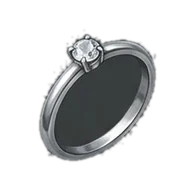
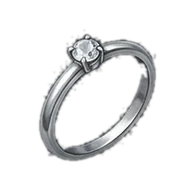
Itens: clique amplia e compara com o equipado, dois cliques equipam; recorte limpa o miolo de aneis, colares e arcos - aguardando OK
Claude-Session: https://claude.ai/code/session_01W1tJzqUatBvNJoFh2xMGhn

Changed region(s): [[0.2812, 0.2812, 0.7812, 0.7812]]

diff --git a/js/app.js b/js/app.js
@@ -405,8 +405,8 @@
   function fichaItemHtml(item) {
     var p = estado.personagem;
     if (!item) {
-      return '<p class="suave">' + (temMouse ? 'Passe o mouse num item para ver a ficha. Clique para equipar ou desequipar.'
-        : 'Toque num item para ver a ficha e equipar.') + '</p>';
+      return '<p class="suave">' + (temMouse ? 'Passe o mouse num item para ver a ficha. Um clique amplia e compara; dois cliques equipam ou desequipam.'
+        : 'Toque num item para ampliar e comparar. Dois toques equipam ou desequipam.') + '</p>';
     }
     var slot = R.slotDoItem(p, item.id);
     var alvo = null;
@@ -447,6 +447,64 @@
       + '<ul class="ficha-item-bonus">' + linhas + '</ul>'
       + (alvo ? '<p class="suave">Comparado com ' + nomeItemHtml(alvo) + '</p>' : '')
       + '<div class="item-acoes">' + acoes + '</div>';
+  }
+
+  // ---------- Zoom do item: o item ampliado, lado a lado com o equipado no mesmo espaço ----------
+  function itemParaComparar(p, item) {
+    if (R.slotDoItem(p, item.id)) return null;
+    if (item.tipo === 'anel') return R.itemNoSlot(p, 'anel1') || R.itemNoSlot(p, 'anel2');
+    return R.itemNoSlot(p, item.tipo);
+  }
+
+  function diferenca(v, outro, sufixo) {
+    var d = Math.round((v - outro) * 10) / 10;
+    return d ? ' <span class="' + (d > 0 ? 'mais' : 'menos') + '">(' + (d > 0 ? '+' : '') + fmt(d) + (sufixo || '') + ')</span>' : '';
+  }
+
+  // Carta grande de um item; `outro` (opcional) é o item com que ele é comparado.
+  function cartaZoom(item, outro, rotulo) {
+    var linhas = [];
+    if (item.tipo === 'arma') {
+      var d = R.danoArma(item), m = (d[0] + d[1]) / 2;
+      var mo = outro ? (R.danoArma(outro)[0] + R.danoArma(outro)[1]) / 2 : null;
+      linhas.push('<li><span>Dano</span><strong>' + dano(d) + '</strong></li>');
+      linhas.push('<li><span>Dano médio</span><strong>' + fmt(m) + (outro ? diferenca(m, mo) : '') + '</strong></li>');
+    } else {
+      var b = R.bonusItem(item), bo = outro ? R.bonusItem(outro) : {};
+      Object.keys(D.bonus).filter(function (k) { return b[k] || bo[k]; }).forEach(function (k) {
+        linhas.push('<li' + (b[k] ? '' : ' class="suave"') + '><span>' + D.bonus[k] + '</span><strong>+' + (b[k] || 0) + (outro ? diferenca(b[k] || 0, bo[k] || 0) : '') + '</strong></li>');
+      });
+    }
+    linhas.push('<li><span>Encantamento</span><strong>+' + (item.encanto || 0) + '</strong></li>');
+    linhas.push('<li><span>Venda</span><strong class="cor-ouro">' + R.precoVenda(item).toLocaleString('pt-BR') + ' de ouro</strong></li>');
+    return '<div class="zoom-carta"><div class="zoom-rotulo">' + rotulo + '</div>'
+      + '<div class="icone-zoom borda-' + item.raridade + aura(item) + '">' + F.icone(item) + (item.encanto ? '<span class="nivel-encanto">+' + item.encanto + '</span>' : '') + '</div>'
+      + '<div class="ficha-item-nome">' + nomeItemHtml(item) + '</div>'
+      + '<div class="suave">' + tipoItem(item) + ' · <span class="raridade-' + item.raridade + '">' + D.raridades[item.raridade].nome + '</span></div>'
+      + '<ul class="zoom-atributos">' + linhas.join('') + '</ul></div>';
+  }
+
+  function zoomHtml() {
+    var p = estado.personagem;
+    var item = estado.zoom && p.inventario.find(function (i) { return i.id === estado.zoom; });
+    if (!item) return '';
+    var slot = R.slotDoItem(p, item.id), outro = itemParaComparar(p, item);
+    var acoes = '';
+    if (slot) {
+      acoes = '<button class="btn" data-acao="desequipar" data-slot="' + slot + '"' + (R.mochilaCheia(p) ? ' disabled title="Mochila cheia"' : '') + '>Desequipar</button>';
+    } else {
+      acoes = (R.podeUsar(p, item) ? '<button class="btn" data-acao="equipar" data-id="' + item.id + '">' + (outro ? 'Trocar pelo equipado' : 'Equipar') + '</button>'
+          : '<span class="menos">Não é da sua classe</span>')
+        + (estado.vendaPendente === item.id
+          ? '<button class="btn perigo" data-acao="vender" data-id="' + item.id + '">Confirmar venda</button>'
+          : '<button class="btn secundario" data-acao="pedir-venda" data-id="' + item.id + '">Vender</button>');
+    }
+    return '<div class="zoom-fundo" data-acao="zoom-fechar"><div class="zoom-janela" role="dialog" aria-label="Item ampliado">'
+      + '<button class="zoom-x" data-acao="zoom-fechar" title="Fechar">✕</button>'
+      + '<div class="zoom-cartas' + (outro ? ' dupla' : '') + '">'
+      + cartaZoom(item, outro, slot ? 'Equipado' : 'Este item')
+      + (outro ? cartaZoom(outro, null, 'Equipado agora') : '')
+      + '</div><div class="botoes">' + acoes + '<button class="btn secundario" data-acao="zoom-fechar">Fechar</button></div></div></div>';
   }
 
   function abaPersonagem() {
@@ -816,7 +874,8 @@
     }
     var trocar = estado.batalha || estado.luta ? '' : '<button class="btn secundario" data-acao="voltar-personagens">Trocar personagem</button>';
     app.innerHTML = topo(trocar) + '<div class="conteudo"><div class="jogo">' + fichaHtml()
-      + '<section class="caixa">' + painel + '</section></div></div>' + rodape();
+      + '<section class="caixa">' + painel + '</section></div></div>' + rodape()
+      + (estado.zoom && estado.aba === 'personagem' && !estado.batalha && !estado.luta ? zoomHtml() : '');
     var reg = document.getElementById('registro');
     if (reg) reg.scrollTop = reg.scrollHeight;
     chatVisivel(true);
@@ -1057,25 +1116,25 @@
         if (estado.aba === 'masmorra') carregarGrupo();
         break;
       case 'item': {
-        // Toque: mostra a ficha do item. Mouse: clique equipa ou desequipa.
+        // Um clique: amplia e compara (espera um instante para ver se é clique duplo).
         var alvoId = el.dataset.id;
-        estado.vendaPendente = null;
-        estado.itemFoco = alvoId;
-        if (temMouse) {
-          var slotAtual = R.slotDoItem(p, alvoId);
-          if (slotAtual) {
-            if (!R.desequipar(p, slotAtual)) avisar('Mochila cheia! Venda algo antes de desequipar.');
-          } else {
-            var itemClicado = p.inventario.find(function (i) { return i.id === alvoId; });
-            if (!R.equipar(p, alvoId)) avisar(itemClicado && !R.podeUsar(p, itemClicado) ? 'Esse item não é da sua classe.' : 'Não foi possível equipar.');
-          }
-          salvar();
-        }
-        telaJogo();
+        clearTimeout(estado.timerZoom);
+        estado.timerZoom = setTimeout(function () {
+          estado.vendaPendente = null;
+          estado.itemFoco = alvoId;
+          estado.zoom = alvoId;
+          telaJogo();
+        }, 260);
         break;
       }
+      case 'zoom-fechar':
+        if (el.classList.contains('zoom-fundo') && e.target !== el) break;   // clique dentro da janela
+        estado.zoom = null;
+        estado.vendaPendente = null;
+        telaJogo();
+        break;
       case 'desequipar':
-        if (R.desequipar(p, el.dataset.slot)) { salvar(); telaJogo(); }
+        if (R.desequipar(p, el.dataset.slot)) { estado.zoom = null; salvar(); telaJogo(); }
         else avisar('Mochila cheia! Venda algo antes de desequipar.');
         break;
       case 'grupo-convidar':
@@ -1178,7 +1237,7 @@
         }
         break;
       case 'equipar':
-        if (R.equipar(p, el.dataset.id)) { estado.vendaPendente = null; salvar(); telaJogo(); }
+        if (R.equipar(p, el.dataset.id)) { estado.vendaPendente = null; estado.zoom = null; salvar(); telaJogo(); }
         break;
       case 'pedir-venda':
         estado.vendaPendente = el.dataset.id;
@@ -1191,6 +1250,7 @@
           salvar();
           avisar('Você vendeu ' + R.nomeItem(item) + ' por ' + valor + ' de ouro.');
           estado.itemFoco = null;
+          estado.zoom = null;
         }
         estado.vendaPendente = null;
         telaJogo();
@@ -1320,6 +1380,28 @@
         telaJogo();
         break;
     }
+  });
+
+  // Dois cliques (ou dois toques) num item: equipa ou desequipa direto.
+  app.addEventListener('dblclick', function (e) {
+    var el = e.target.closest('[data-acao="item"]');
+    var p = estado.personagem;
+    if (!el || !p) return;
+    clearTimeout(estado.timerZoom);
+    var id = el.dataset.id, slot = R.slotDoItem(p, id);
+    estado.zoom = null;
+    estado.vendaPendente = null;
+    if (slot) {
+      if (!R.desequipar(p, slot)) avisar('Mochila cheia! Venda algo antes de desequipar.');
+    } else {
+      var it = p.inventario.find(function (i) { return i.id === id; });
+      if (!R.equipar(p, id)) avisar(it && !R.podeUsar(p, it) ? 'Esse item não é da sua classe.' : 'Não foi possível equipar.');
+    }
+    salvar();
+    telaJogo();
+  });
+  document.addEventListener('keydown', function (e) {
+    if (e.key === 'Escape' && estado.zoom) { estado.zoom = null; telaJogo(); }
   });
 
   // Mouse sobre um item: mostra a ficha dele depois de um instante (para não trocar ao só passar por cima).

diff --git a/css/estilo.css b/css/estilo.css
@@ -544,3 +544,19 @@ button.slot:hover, button.celula:hover, .focado { outline: 2px solid var(--ouro-
   .mas-arena { grid-template-columns: minmax(0, 1fr); }
   .mas-arena .vs { text-align: center; }
 }
+
+/* Zoom do item (um clique): item ampliado, lado a lado com o equipado */
+.zoom-fundo { position: fixed; inset: 0; z-index: 20; display: grid; place-items: center; padding: 16px; background: rgba(4, 6, 10, .78); }
+.zoom-janela { position: relative; width: min(680px, 100%); max-height: calc(100vh - 32px); overflow-y: auto; padding: 1.2rem; border: 1px solid var(--ouro); border-radius: 12px; background: var(--painel-2); box-shadow: 0 20px 60px rgba(0, 0, 0, .7); }
+.zoom-x { position: absolute; top: .4rem; right: .6rem; background: none; border: 0; color: var(--suave); font-size: 1.2rem; cursor: pointer; }
+.zoom-cartas { display: grid; grid-template-columns: minmax(0, 1fr); gap: 1rem; justify-items: center; }
+.zoom-cartas.dupla { grid-template-columns: repeat(2, minmax(0, 1fr)); }
+.zoom-carta { display: grid; gap: .3rem; justify-items: center; text-align: center; width: 100%; max-width: 300px; }
+.zoom-rotulo { font-family: var(--titulo); color: var(--suave); font-size: .8rem; letter-spacing: .12em; text-transform: uppercase; }
+.icone-zoom { position: relative; display: grid; place-items: center; width: min(200px, 100%); aspect-ratio: 1; padding: 10px; border: 3px solid var(--borda); border-radius: 10px; margin: .3rem 0; }
+.icone-zoom img, .icone-zoom svg { width: 100%; height: 100%; object-fit: contain; }
+.icone-zoom .nivel-encanto { font-size: 1rem; top: 6px; right: 8px; }
+.zoom-atributos { list-style: none; margin: .4rem 0 0; padding: 0; width: 100%; display: grid; gap: .25rem; }
+.zoom-atributos li { display: flex; justify-content: space-between; gap: .5rem; border-bottom: 1px solid rgba(44, 52, 66, .6); padding: .2rem 0; }
+.zoom-janela .botoes { justify-content: center; margin-top: 1rem; }
+@media (max-width: 520px) { .icone-zoom { width: min(150px, 100%); } }

diff --git a/index.html b/index.html
@@ -8,17 +8,17 @@
   <link rel="preconnect" href="https://fonts.googleapis.com">
   <link rel="preconnect" href="https://fonts.gstatic.com" crossorigin>
   <link href="https://fonts.googleapis.com/css2?family=Cinzel:wght@500;700&family=EB+Garamond:wght@400;500;600&display=swap" rel="stylesheet">
-  <link rel="stylesheet" href="css/estilo.css?v=24">
+  <link rel="stylesheet" href="css/estilo.css?v=25">
 </head>
 <body>
   <main id="app" aria-live="polite"></main>
   <div id="aviso" role="status" hidden></div>
 
-  <script src="js/dados.js?v=24"></script>
-  <script src="js/regras.js?v=24"></script>
-  <script src="js/config.js?v=24"></script>
-  <script src="js/contas.js?v=24"></script>
-  <script src="js/retratos.js?v=24"></script>
-  <script src="js/app.js?v=24"></script>
+  <script src="js/dados.js?v=25"></script>
+  <script src="js/regras.js?v=25"></script>
+  <script src="js/config.js?v=25"></script>
+  <script src="js/contas.js?v=25"></script>
+  <script src="js/retratos.js?v=25"></script>
+  <script src="js/app.js?v=25"></script>
 </body>
 </html>

diff --git a/ferramentas/recortar_fundo.py b/ferramentas/recortar_fundo.py
@@ -6,7 +6,7 @@ import sys, numpy as np
 from collections import deque
 from PIL import Image, ImageFilter
 
-def recortar(origem, destino, passo=7, limite=60):
+def recortar(origem, destino, passo=7, limite=60, minimo_mancha=120):
     im = np.asarray(Image.open(origem).convert('RGB')).astype(np.int32)
     h, w, _ = im.shape
     borda = np.concatenate([im[0], im[-1], im[:, 0], im[:, -1]])
@@ -31,6 +31,26 @@ def recortar(origem, destino, passo=7, limite=60):
                 if d < passo and dist_fundo[ny, nx] < limite and sat[ny, nx] < 40:
                     visto[ny, nx] = True
                     fila.append((ny, nx))
+    # Fundo preso dentro do item (miolo do anel, entre a corda e o arco): manchas grandes com a
+    # cor do fundo que não encostam na borda também somem. Manchas pequenas ficam (são detalhes do item).
+    parecido = (dist_fundo < limite) & (sat < 40) & ~visto
+    for y0, x0 in zip(*np.nonzero(parecido)):
+        if not parecido[y0, x0]:
+            continue
+        mancha = [(y0, x0)]
+        parecido[y0, x0] = False
+        fila = deque(mancha)
+        while fila:
+            y, x = fila.popleft()
+            for dy, dx in ((1, 0), (-1, 0), (0, 1), (0, -1)):
+                ny, nx = y + dy, x + dx
+                if 0 <= ny < h and 0 <= nx < w and parecido[ny, nx] and np.sqrt(((im[ny, nx] - im[y, x]) ** 2).sum()) < passo:
+                    parecido[ny, nx] = False
+                    mancha.append((ny, nx))
+                    fila.append((ny, nx))
+        if len(mancha) >= minimo_mancha:
+            for y, x in mancha:
+                visto[y, x] = True
     alfa = np.where(visto, 0, 255).astype(np.uint8)
     # Borda suave: desfoca a máscara um pouco.
     mascara = Image.fromarray(alfa).filter(ImageFilter.GaussianBlur(1.2))
@@ -39,7 +59,7 @@ def recortar(origem, destino, passo=7, limite=60):
     rgba.resize((192, 192), Image.LANCZOS).save(destino, quality=86, method=6)
 
 # Artes com moldura ou fundo texturizado precisam de mais tolerância.
-AJUSTES = {'anel-comum': (9, 95), 'anel-lendaria': (9, 95), 'mago-botas-epica': (10, 110), 'mago-botas-lendaria': (10, 110)}
+AJUSTES = {'anel-comum': (9, 95), 'anel-lendaria': (9, 95), 'mago-botas-epica': (10, 110), 'mago-botas-lendaria': (10, 110), 'mago-peitoral-lendaria': (10, 110)}
 
 if __name__ == '__main__':
     import os
@@ -47,5 +67,9 @@ if __name__ == '__main__':
     nomes = sys.argv[1:] or sorted(f[:-4] for f in os.listdir(pasta) if f.endswith('.jpg'))
     for nome in nomes:
         passo, limite = AJUSTES.get(nome, (7, 60))
-        recortar(os.path.join(pasta, nome + '.jpg'), os.path.join(pasta, nome + '.webp'), passo, limite)
+        # Fundo preso por dentro só existe em itens vazados (anel, colar, arco); nos outros a regra
+        # apagaria partes escuras do próprio item.
+        vazado = nome.startswith(('anel-', 'colar-', 'arma-arqueiro-'))
+        recortar(os.path.join(pasta, nome + '.jpg'), os.path.join(pasta, nome + '.webp'), passo, limite,
+                 minimo_mancha=120 if vazado else 10 ** 9)
         print('ok', nome)

diff --git a/README.md b/README.md
@@ -95,7 +95,7 @@ A vida com o tempo e o reset diário usam o relógio do servidor. Ainda falta a 
 | Gárgula | rara 15% | rara 15% | | 5% (da arma equipada) |
 
   Da Torre Carmesim em diante, os drops continuam como antes (ver `js/dados.js`).
-- **Aba Personagem** (abre primeiro): retrato com 8 espaços em volta (elmo, colar, peitoral, arma, luvas, 2 anéis, botas) e a mochila de 32 espaços. Com mouse: clicar equipa/desequipa e passar o mouse mostra a ficha do item com comparação. No celular: tocar mostra a ficha com os botões. Mochila cheia não recebe drops.
+- **Aba Personagem** (abre primeiro): retrato com 8 espaços em volta (elmo, colar, peitoral, arma, luvas, 2 anéis, botas) e a mochila de 32 espaços. Um clique (ou toque) num item abre a **janela ampliada**, com o item grande e os atributos **lado a lado com o equipado** no mesmo espaço (diferenças em verde/vermelho), e os botões Equipar/Trocar, Vender e Fechar (Esc ou clique fora também fecham). **Dois cliques** equipam ou desequipam direto. Com mouse, passar por cima mostra a ficha resumida ao lado. Mochila cheia não recebe drops.
 - **Armaduras por classe**: Cavaleiro (placas: defesa e vida), Arqueiro (couro: destreza e sorte), Mago (tecido: inteligência e defesa mágica), Artesão (forja: força e sorte). Colar e anel para todos. Os bônus de atributo contam para tudo que o atributo influencia. Valores em `js/dados.js` (`armaduras` e `joias`).
 - **Ouro e mercado**: o ouro aparece acima dos atributos. Qualquer arma, menos a equipada, pode ser vendida no inventário. As armas têm **8 variações por raridade** em cada classe (nomes diferentes) e o dano é **sorteado** quando a arma cai ou é comprada: o mínimo numa faixa e o máximo em outra (ex.: uma comum 4–10). Armas de antes dessa mudança viraram a variação clássica com o dano no meio das faixas. A aba Mercado vende armas sorteadas de cada raridade:
 
